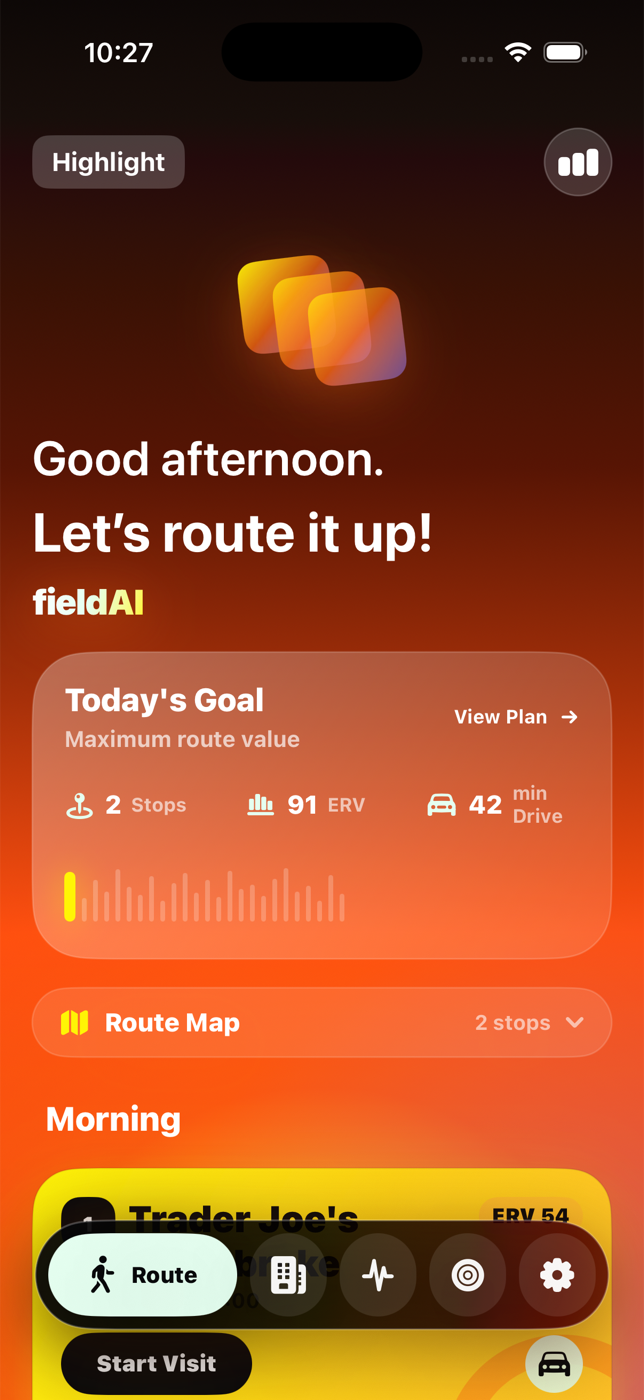
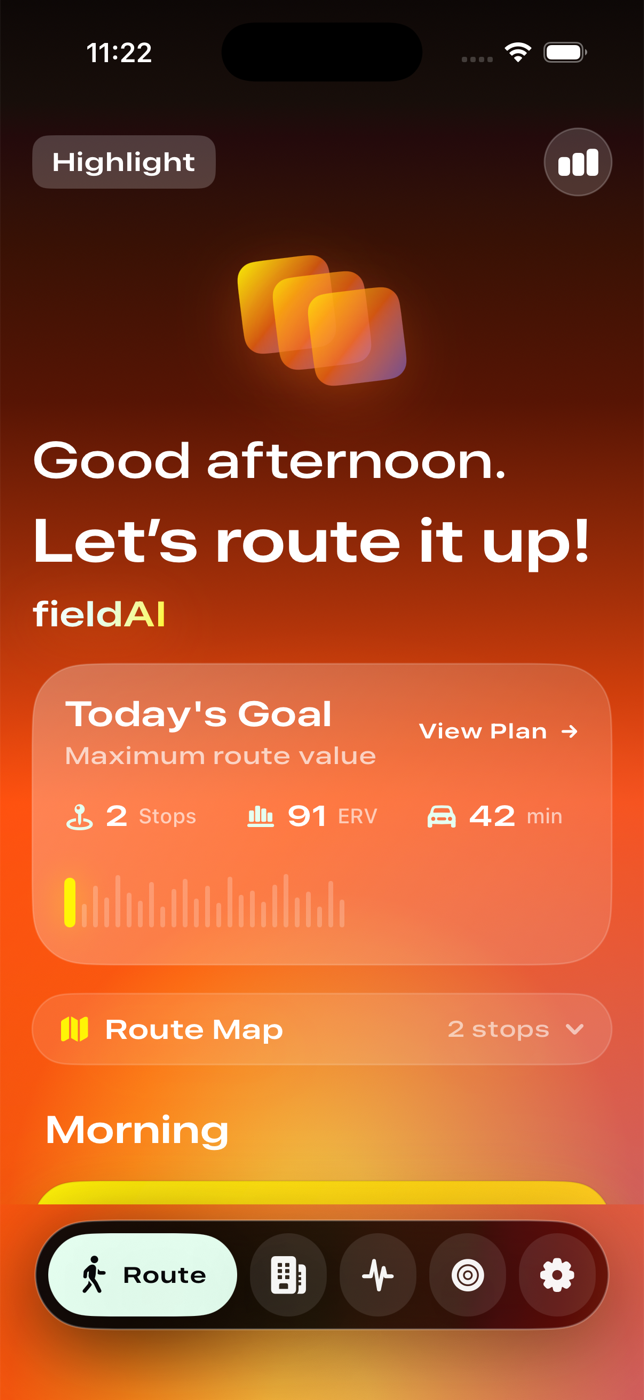
Update FieldAI portfolio section

diff --git a/src/App.tsx b/src/App.tsx
@@ -77,16 +77,17 @@ const emailUrl = 'mailto:koa24@cornell.edu'
 const projects: Project[] = [
   {
     id: 'field-ai',
-    name: 'Field AI',
-    kicker: 'AI scheduling platform',
+    name: 'FieldAI',
+    kicker: 'Field-sales AI platform',
     summary:
-      'Constraint-aware planning system that ingests tasks from email, calendar, and notifications.',
+      'Pilot-stage iOS and backend system for field-sales routes, goals, visits, void recovery, and manager visibility.',
     detail:
-      'Building an AI-driven route optimization and daily scheduling engine with explainable replanning for time windows, priorities, travel time, and disruptions.',
-    status: 'In progress',
-    impact: 'Autonomous ingestion + explainable planning',
+      'Built the FieldAI field-test runway: SwiftUI iOS app, TypeScript backend, Postgres/pgvector, Clerk beta auth, hosted staging, Daily Field Copilot, and approval-based agent proposals.',
+    status: 'Pilot build',
+    impact: 'Real-user field tests + startup formation',
     color: 'acid',
-    stack: ['Python', 'Node.js', 'TypeScript', 'Express', 'REST APIs'],
+    stack: ['SwiftUI', 'TypeScript', 'Postgres', 'Clerk', 'Render', 'OpenAI API'],
+    href: 'https://github.com/kingkwabs/FieldAI',
     icon: Route,
     node: { x: 49, y: 16 },
   },
@@ -204,6 +205,10 @@ const skills = [
   'TypeScript',
   'SQL',
   'PostgreSQL',
+  'pgvector',
+  'SwiftUI',
+  'Clerk',
+  'Render',
   'AWS',
   'REST APIs',
   'Machine learning',
@@ -247,15 +252,15 @@ const proof = [
 const skillReelCards: SkillReelCard[] = [
   {
     id: 'planning-engines',
-    title: 'AI planning engines',
-    kicker: 'agents + route logic',
+    title: 'Field ops intelligence',
+    kicker: 'routes, goals, copilot',
     body:
-      'I model time windows, priorities, travel constraints, and replanning loops so AI systems can explain why a plan changed.',
-    proof: 'FieldAI route planning',
+      'FieldAI is moving from planning engine to startup product: live routes, goals, visits, void recovery, manager roles, and proposal-only AI grounded in operational evidence.',
+    proof: 'FieldAI pilot build',
     image: publicUrl('/assets/reel/fieldai-planning.png'),
-    imageAlt: 'FieldAI route planning mobile interface',
+    imageAlt: 'FieldAI route planning screen for field-sales reps',
     color: 'acid',
-    stack: ['Python', 'TypeScript', 'OpenAI API', 'Routing'],
+    stack: ['SwiftUI', 'Postgres', 'pgvector', 'Clerk'],
     icon: Route,
   },
   {
@@ -316,8 +321,10 @@ const signalLines = [
   'calendar.event -> task window',
   'email.thread -> structured work order',
   'constraint graph -> route plan',
-  'agent rollout -> explainable decision',
+  'copilot proposal -> reviewed action',
   'postgres row -> operational dashboard',
+  'clerk org -> beta workspace',
+  'field route -> testable workflow',
   'quickbooks event -> transaction state',
 ]
 
